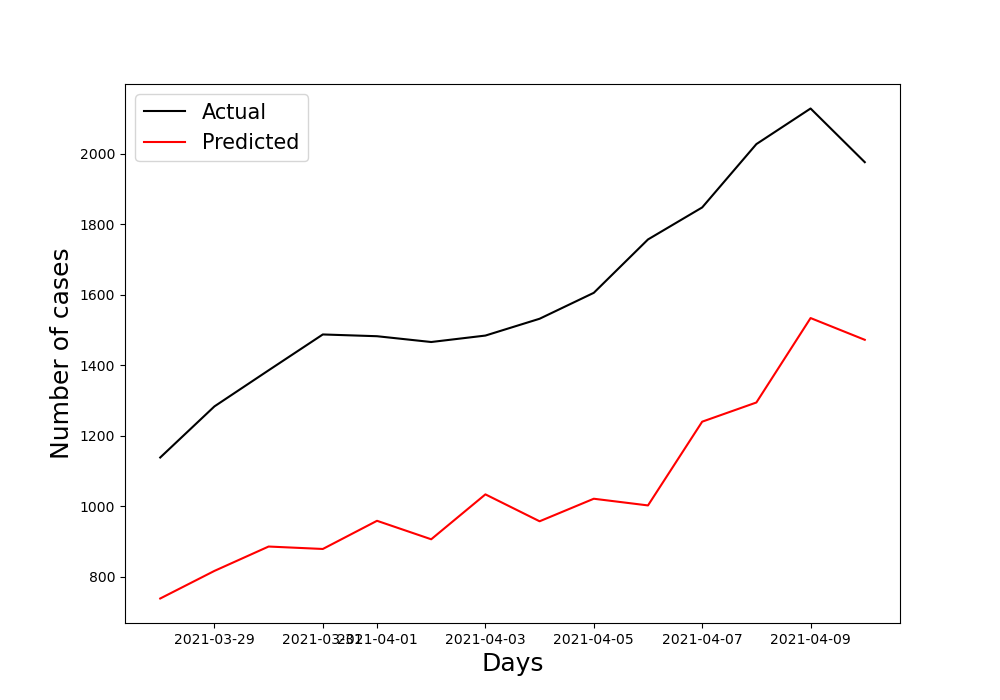
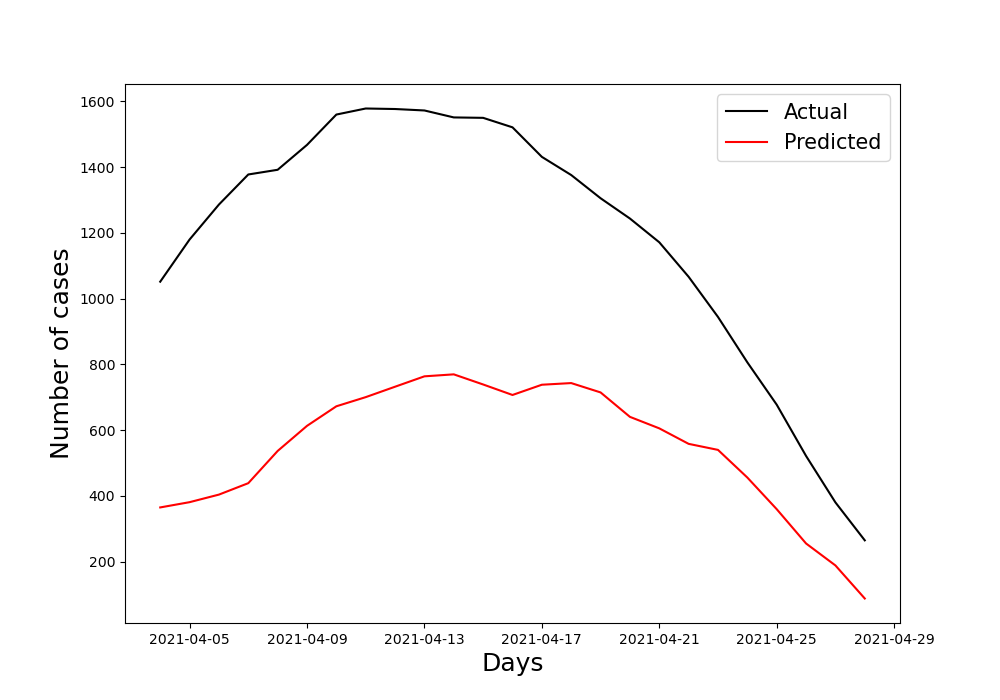
changes in v1

diff --git a/main/LSTNet_v1/Test_v1.py b/main/LSTNet_v1/Test_v1.py
@@ -51,8 +51,8 @@ def predict(model, dataloader, min_cases, max_cases):
 #--------------------------------------------------------------------------------------------------
 #----------------------------------------- Data paths ---------------------------------------------
 
-data_cases_path = os.path.join('data','cases.csv')
-data_movement_change_path = os.path.join('data','movement_range.csv')
+data_cases_path = os.path.join('data','cases_localidades.csv')
+data_movement_change_path = os.path.join('data','Movement','movement_range_colombian_cities.csv')
 data_GT_path = os.path.join('data','Google_Trends','trends_BOG.csv')
 data_GT_id_terms_path = os.path.join('data','Google_Trends','terms_id_ES.csv')
 data_GT_search_terms_path = os.path.join('data','Google_Trends','search_terms_ES.csv')
@@ -62,10 +62,10 @@ data_GT_search_terms_path = os.path.join('data','Google_Trends','search_terms_ES
 
 ### Load confirmed cases for Bogota
 data_cases = pd.read_csv(data_cases_path, usecols=['date_time','location','num_cases','num_diseased'])
-data_cases = data_cases.query(" location == 'Bogotá D.C.-Bogotá d C.' ")
-data_cases = data_cases.drop('location', axis=1)
 data_cases['date_time'] = pd.to_datetime(data_cases['date_time'], format='%Y-%m-%d')    # converted to datetime
-data_cases = data_cases.set_index('date_time')
+# data_cases = data_cases[data_cases['date_time'] <= date_th]
+last_cases_conf_date = data_cases['date_time'].iloc[-1]
+data_cases = data_cases.groupby('date_time').sum()
 # Smooth data
 data_cases['num_cases_7dRA']    = data_cases['num_cases'].rolling(window=7).mean()
 data_cases['num_diseased_7dRA'] = data_cases['num_diseased'].rolling(window=7).mean()
@@ -76,13 +76,14 @@ data_movement_change = data_movement_change.loc[11001].sort_values(by='date_time
 # Smooth data 
 data_movement_change['movement_change_7dRA'] = data_movement_change['movement_change'].rolling(window=7).mean()
 #data_movement_change['movement_change_7dRA'].iloc[:6] = data_movement_change['movement_change'].iloc[:6]
-data_movement_change = data_movement_change[data_movement_change['date_time'] <= datetime.strptime('2021-04-10','%Y-%m-%d')]
+data_movement_change = data_movement_change[data_movement_change['date_time'] <= last_cases_conf_date]
 data_movement_change = data_movement_change.reset_index() ; data_movement_change = data_movement_change.set_index('date_time')
 data_movement_change = data_movement_change.drop('poly_id', axis=1)
 
+
 ### Load Google Trends data for Bogota
 if args.GT_trends == None:
-    data_GT = pd.read_csv(data_GT_path, usecols=['date','anosmia','tos','fiebre','covid'])
+    data_GT = pd.read_csv(data_GT_path, usecols=['date_time','anosmia','fiebre','covid'])
 elif args.GT_trends == 'all':
     data_GT = pd.read_csv(data_GT_path)
     data_GT = data_GT.drop('Unnamed: 0', axis=1)
@@ -92,8 +93,8 @@ elif args.GT_trends == 'all':
 #     data_search_terms = pd.read_csv(data_GT_search_terms_path)
 #     data_GT = pd.read_csv(data_GT_path)
 #     data_GT = related_trends(data_search_terms, data_main_terms, data_GT, r_select)
-data_GT = data_GT.rename(columns={'date':'date_time'})
 data_GT['date_time'] = pd.to_datetime(data_GT['date_time'], format='%Y-%m-%d')
+data_GT = data_GT[data_GT['date_time'] <= last_cases_conf_date]
 data_GT = data_GT.set_index('date_time')
 data_GT = data_GT.rolling(window=7).mean()
 
@@ -128,7 +129,7 @@ min_cases = data_input['num_cases_7dRA'].min() ; max_cases = data_input['num_cas
 min_diseased = data_input['num_diseased_7dRA'].min() ; max_diseased = data_input['num_diseased_7dRA'].max()
 min_movement = data_input['movement_change_7dRA'].min() ; max_movement = data_input['movement_change_7dRA'].max()
 min_anosmia = data_input['anosmia'].min() ; max_anosmia = data_input['anosmia'].max()
-min_tos = data_input['tos'].min() ; max_tos = data_input['tos'].max()
+# min_tos = data_input['tos'].min() ; max_tos = data_input['tos'].max()
 min_fiebre = data_input['fiebre'].min() ; max_fiebre = data_input['fiebre'].max()
 min_covid = data_input['covid'].min() ; max_covid = data_input['covid'].max()
 
@@ -136,7 +137,7 @@ data_input.loc[:,'num_cases-N'] = (data_input['num_cases_7dRA']-min_cases)/(max_
 data_input.loc[:,'num_diseased-N'] = (data_input['num_diseased_7dRA']-min_diseased)/(max_diseased-min_diseased)
 data_input.loc[:,'movement-N'] = (data_input['movement_change_7dRA']-min_movement)/(max_movement-min_movement)
 data_input.loc[:,'anosmia-N'] = (data_input['anosmia']-min_anosmia)/(max_anosmia-min_anosmia)
-data_input.loc[:,'tos-N'] = (data_input['tos']-min_tos)/(max_tos-min_tos)
+# # data_input.loc[:,'tos-N'] = (data_input['tos']-min_tos)/(max_tos-min_tos)
 data_input.loc[:,'fiebre-N'] = (data_input['fiebre']-min_fiebre)/(max_fiebre-min_fiebre)
 data_input.loc[:,'covid-N'] = (data_input['covid']-min_covid)/(max_covid-min_covid)
 
@@ -158,7 +159,7 @@ pred_forecast = pred_forecast[['date_time','forecast_cases']]
 #--------------------------------------------------------------------------------------------------
 #-------------------------------------- Viz predictions -------------------------------------------
 
-time_mask = datetime.strptime('2021-03-28','%Y-%m-%d')
+time_mask = datetime.strptime('2021-04-04','%Y-%m-%d')
 data_mask = data_input['date_time'] >= time_mask
 actual_data = data_input[data_mask].copy()
 actual_data['date_time'] = pd.to_datetime(actual_data['date_time'], format='%Y-%m-%d')

diff --git a/main/LSTNet_v1/Train_v1.py b/main/LSTNet_v1/Train_v1.py
@@ -77,7 +77,7 @@ def train(model, dataloader, epochs, optimizer, criterion, savename, device):
 #--------------------------------------------------------------------------------------------------
 #----------------------------------------- Data paths ---------------------------------------------
 
-data_cases_path = os.path.join('data','cases.csv')
+data_cases_path = os.path.join('data','cases_localidades.csv')
 data_movement_change_path = os.path.join('data','Movement','movement_range_colombian_cities.csv')
 data_GT_path = os.path.join('data','Google_Trends','trends_BOG.csv')
 data_GT_id_terms_path = os.path.join('data','Google_Trends','terms_id_ES.csv')
@@ -88,10 +88,10 @@ data_GT_search_terms_path = os.path.join('data','Google_Trends','search_terms_ES
 
 ### Load confirmed cases for Bogota
 data_cases = pd.read_csv(data_cases_path, usecols=['date_time','location','num_cases','num_diseased'])
-data_cases = data_cases.query(" location == 'Bogotá D.C.-Bogotá d C.' ")
-data_cases = data_cases.drop('location', axis=1)
 data_cases['date_time'] = pd.to_datetime(data_cases['date_time'], format='%Y-%m-%d')    # converted to datetime
-data_cases = data_cases.set_index('date_time')
+# data_cases = data_cases[data_cases['date_time'] <= date_th]
+last_cases_conf_date = data_cases['date_time'].iloc[-1]
+data_cases = data_cases.groupby('date_time').sum()
 # Smooth data
 data_cases['num_cases_7dRA']    = data_cases['num_cases'].rolling(window=7).mean()
 data_cases['num_diseased_7dRA'] = data_cases['num_diseased'].rolling(window=7).mean()
@@ -102,13 +102,14 @@ data_movement_change = data_movement_change.loc[11001].sort_values(by='date_time
 # Smooth data 
 data_movement_change['movement_change_7dRA'] = data_movement_change['movement_change'].rolling(window=7).mean()
 #data_movement_change['movement_change_7dRA'].iloc[:6] = data_movement_change['movement_change'].iloc[:6]
-data_movement_change = data_movement_change[data_movement_change['date_time'] <= datetime.strptime('2021-04-10','%Y-%m-%d')]
+data_movement_change = data_movement_change[data_movement_change['date_time'] <= last_cases_conf_date]
 data_movement_change = data_movement_change.reset_index() ; data_movement_change = data_movement_change.set_index('date_time')
 data_movement_change = data_movement_change.drop('poly_id', axis=1)
 
+
 ### Load Google Trends data for Bogota
 if args.GT_trends == None:
-    data_GT = pd.read_csv(data_GT_path, usecols=['date','anosmia','tos','fiebre','covid'])
+    data_GT = pd.read_csv(data_GT_path, usecols=['date_time','anosmia','fiebre','covid'])
 elif args.GT_trends == 'all':
     data_GT = pd.read_csv(data_GT_path)
     data_GT = data_GT.drop('Unnamed: 0', axis=1)
@@ -118,8 +119,8 @@ elif args.GT_trends == 'all':
 #     data_search_terms = pd.read_csv(data_GT_search_terms_path)
 #     data_GT = pd.read_csv(data_GT_path)
 #     data_GT = related_trends(data_search_terms, data_main_terms, data_GT, r_select)
-data_GT = data_GT.rename(columns={'date':'date_time'})
 data_GT['date_time'] = pd.to_datetime(data_GT['date_time'], format='%Y-%m-%d')
+data_GT = data_GT[data_GT['date_time'] <= last_cases_conf_date]
 data_GT = data_GT.set_index('date_time')
 data_GT = data_GT.rolling(window=7).mean()
 
@@ -142,7 +143,7 @@ print(f'Data from {start_dt} to {end_dt}')
 #--------------------------------------- Train dataset --------------------------------------------
 
 data_input = data_all.drop(columns=['num_cases','num_diseased'], axis=1)
-train_end_time = datetime.strptime('2021-03-28','%Y-%m-%d')  # train until last 14 days
+train_end_time = datetime.strptime('2021-04-04','%Y-%m-%d')  # train until last 14 days
 train_data = data_input[data_input['date_time'] < train_end_time].copy()
 
 ## Min-Max Normalization
@@ -150,7 +151,7 @@ min_cases = train_data['num_cases_7dRA'].min() ; max_cases = train_data['num_cas
 min_diseased = train_data['num_diseased_7dRA'].min() ; max_diseased = train_data['num_diseased_7dRA'].max()
 min_movement = train_data['movement_change_7dRA'].min() ; max_movement = train_data['movement_change_7dRA'].max()
 min_anosmia = train_data['anosmia'].min() ; max_anosmia = train_data['anosmia'].max()
-min_tos = train_data['tos'].min() ; max_tos = train_data['tos'].max()
+# min_tos = train_data['tos'].min() ; max_tos = train_data['tos'].max()
 min_fiebre = train_data['fiebre'].min() ; max_fiebre = train_data['fiebre'].max()
 min_covid = train_data['covid'].min() ; max_covid = train_data['covid'].max()
 
@@ -158,7 +159,7 @@ train_data.loc[:,'num_cases-N'] = (train_data['num_cases_7dRA']-min_cases)/(max_
 train_data.loc[:,'num_diseased-N'] = (train_data['num_diseased_7dRA']-min_diseased)/(max_diseased-min_diseased)
 train_data.loc[:,'movement-N'] = (train_data['movement_change_7dRA']-min_movement)/(max_movement-min_movement)
 train_data.loc[:,'anosmia-N'] = (train_data['anosmia']-min_anosmia)/(max_anosmia-min_anosmia)
-train_data.loc[:,'tos-N'] = (train_data['tos']-min_tos)/(max_tos-min_tos)
+# # # train_data.loc[:,'tos-N'] = (train_data['tos']-min_tos)/(max_tos-min_tos)
 train_data.loc[:,'fiebre-N'] = (train_data['fiebre']-min_fiebre)/(max_fiebre-min_fiebre)
 train_data.loc[:,'covid-N'] = (train_data['covid']-min_covid)/(max_covid-min_covid)
 

diff --git a/main/LSTNet_v1/Dataloader_v1.py b/main/LSTNet_v1/Dataloader_v1.py
@@ -12,7 +12,7 @@ class BaseCOVDataset(Dataset):
         return self.len
     
     def __getitem__(self, index):
-        x_cols = ['num_cases-N', 'num_diseased-N', 'movement-N', 'covid-N', 'anosmia-N', 'tos-N', 'fiebre-N']
+        x_cols = ['num_cases-N', 'num_diseased-N', 'movement-N', 'covid-N', 'anosmia-N', 'fiebre-N']
         y_cols = ['num_cases-N']
         x = self.data.iloc[index: index+self.history_len, :][x_cols].values
         y = self.data.iloc[index+self.history_len, :][y_cols].values.astype('float')

diff --git a/main/LSTNet_v1/LSTNet_v1.py b/main/LSTNet_v1/LSTNet_v1.py
@@ -8,7 +8,7 @@ class LSTNet_v1(nn.Module):
     
     def __init__(self):
         super(LSTNet_v1, self).__init__()
-        self.num_features = 7
+        self.num_features = 6
         self.conv1_out_channels = 32 
         self.conv1_kernel_height = 7
         self.recc1_out_channels = 64 
